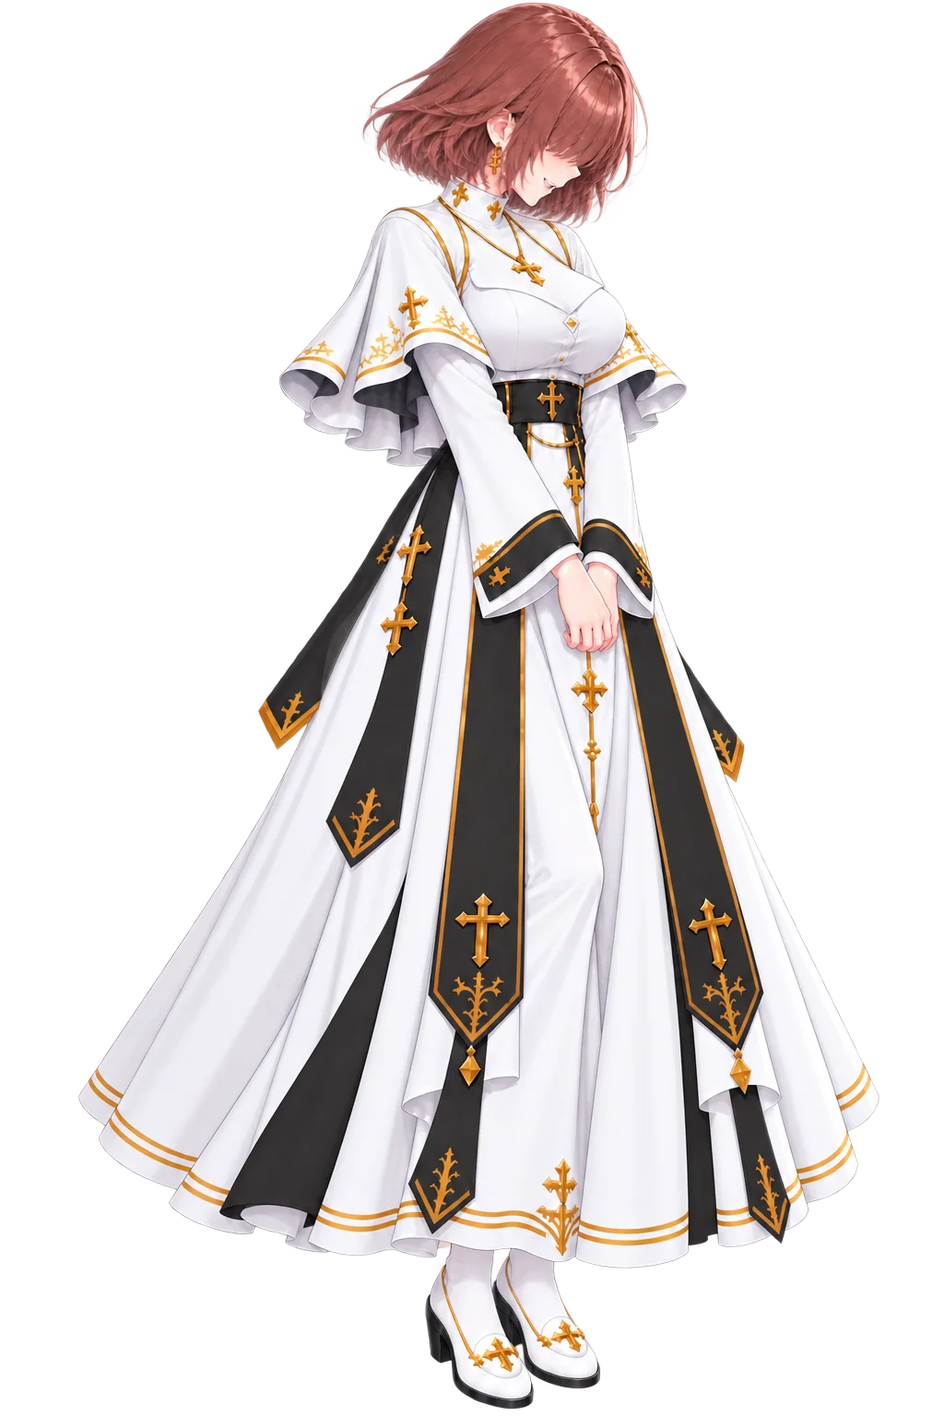
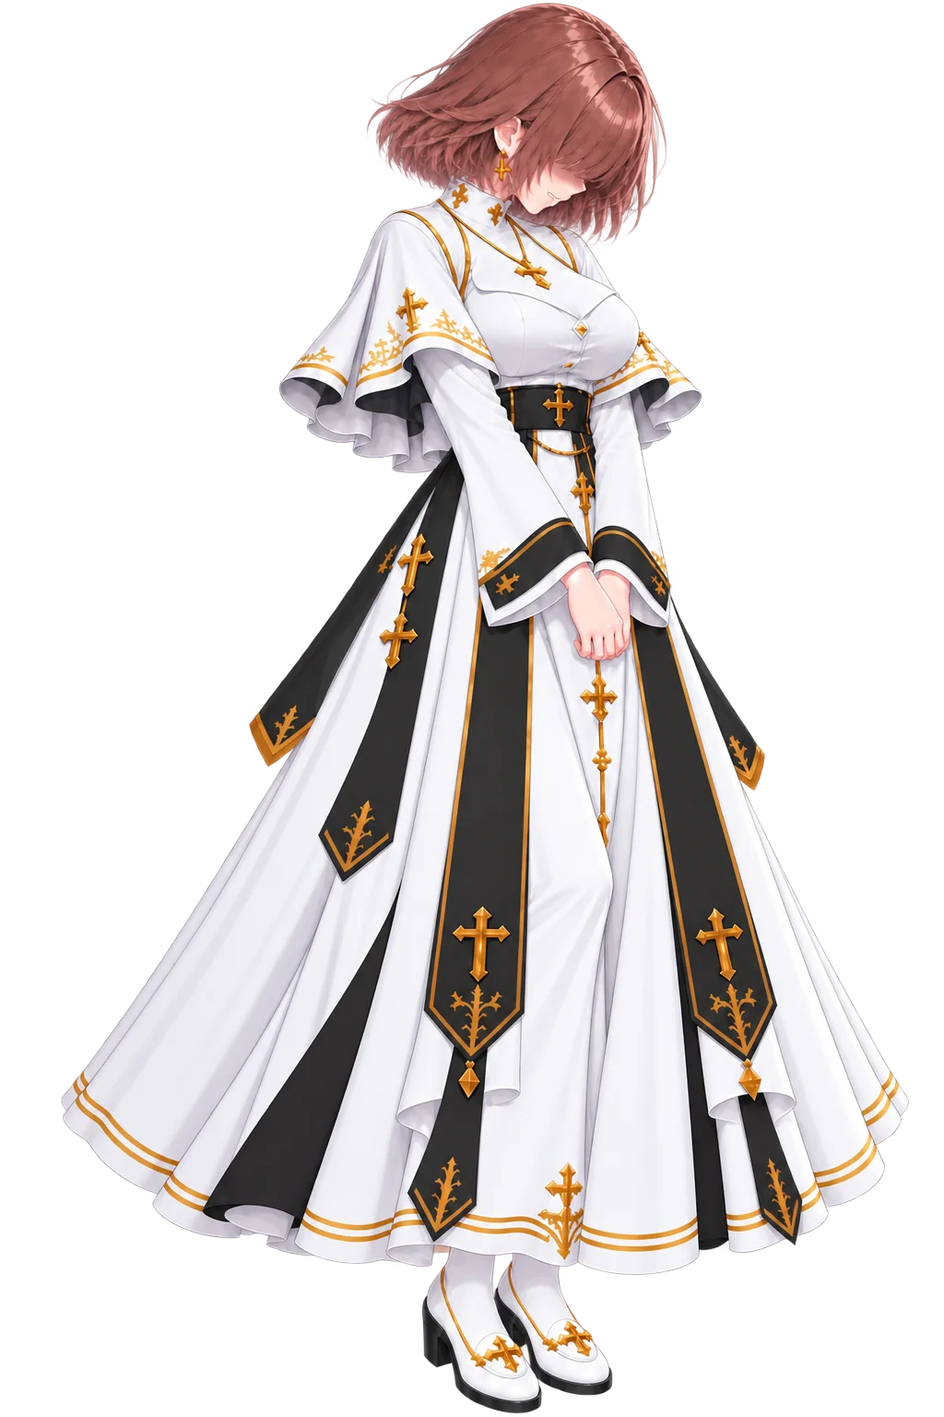
feat(鏡湖/立繪): 你說呢之後撤立繪＋再一次腳步聲／sadsmilenoeye 全換 sadsmile／新差分轉檔 ver -1547
Ray 三件

## 一、「你說呢？」之後撤立繪，再放一次 `se_walk`
那一拍改成 `{ NARRATION, se:'se_walk', auto:1400, **hide:'*'** }`。
· **`hide:'*'` ＝把台上的人全撤**（引擎新增，`modules/story.js`）——
  點名一個個寫也做得到，但那是一份**會過期的清單**（鐵律 8）：那一拍台上站著誰是
  **演到那裡才知道**的，腳本寫死一定漏掉某個人，而漏掉的下場是「那個人留在台上」，
  **沒有任何錯誤訊息**。
· 它走**同一支** `leaveSlot`（與具名 hide、`clearCast` 同一個實作），不碰對話框與
  `story-talking` ⇒ 那一拍照樣有 `se`／`auto`。
· ⚠ 撤乾淨之後台上沒人 ⇒ `auto` 真的會跑（§6.5 的 -628 只押「台上有人」的無台詞拍）。
· 這是**第二次** `se_walk`：第一次是尼莫那一群走掉（賽西莉背影那一拍），這次是她自己。
· `tools/script_lint.py` 跟著認得 `'*'`（不然它報「hide 指到不存在的角色 *」）。

## 二、諾薇兒 `sadsmilenoeye` → `sadsmile`（**五處全換**）
`shinier_ruins`×2、`ravnsdal`×2、`lake`×1。
⚠ 新交的 `sadsmilenoeye` 是「低頭、瀏海蓋住眼睛」，那五拍有四拍**是在回話**——
  臉藏起來讀不通；`sadsmile` 是抬眼的苦笑。
⚠ `sadsmilenoeye` 的 ART 條目**留著**（圖存在，日後要「把臉藏起來」那一拍用得上）。

## 三、差分更新：PNG 全轉 webp、原 PNG 進 `_originals`
· `Nouvelle_SI_sadsmilenoeye`（**同名覆蓋** ⇒ 掛 `?v=2`，§5）＋重量取景
  （舊 2/1527/0.556 → 新 **3/1531/0.568**，沿用舊值臉會偏）
· `Nouvelle_SI_sadnoeye`（**新差分**，已接進 ART：2/1528/0.552）
· `misha_SI_front`、`weapon/chikushoudou` 一併轉檔歸檔（**都還沒接線**，見回報）
⚠ 兩張沒命名的（`CI/045ac642-*.png`、`illustration/d03273c9-*.png`）**沒動**：
  還不知道該叫什麼，轉了也接不上。

## 驗收（瀏覽器實測）
`hide:'*'` 那一拍之後賽西莉的元素 **`.on` 被拿掉**（`CECILIE:story-portrait`），
蕾娜接著上台；`script_lint.py` 0 錯。

Changed region(s): [[0.0625, 0.0, 0.9688, 1.0]]

diff --git a/flight/index.html b/flight/index.html
@@ -3,7 +3,7 @@
 <head>
 <meta charset="utf-8">
 <meta name="viewport" content="width=device-width,initial-scale=1,maximum-scale=1,user-scalable=no,viewport-fit=cover">
-<script src="../orientation.js?v=1546"></script>
+<script src="../orientation.js?v=1547"></script>
 <title>TIVOT — 銀月大陸航行</title>
 <style>
   :root{ --gold:#c9a227; --parch:#d8cdb4; }
@@ -212,7 +212,7 @@
     100%{transform:translate(0,0);} }
   #fkerbDoor{position:absolute;left:0;top:0;transform:translateY(0);
     transition:transform 1s cubic-bezier(.22,.9,.25,1);
-    background-image:url('../resources/vfx/kerberos_door.webp?v=1546edab');
+    background-image:url('../resources/vfx/kerberos_door.webp?v=1547edab');
     background-repeat:no-repeat;background-size:100% 100%;}
   #fkerb.rise #fkerbDoor{transform:translateY(calc(var(--fkerb-rise,0px) * -1));}
   /* 楣與其餘零件：全部是門的子元素＝同一剛體，門上推它們跟著上去
@@ -235,8 +235,8 @@
       radial-gradient(circle at 50% 22%, rgba(0,0,0,.72) 40%, rgba(0,0,0,0) 78%);
     box-shadow:inset 0 3px 7px rgba(0,0,0,.85);}
   #fkerbGear .fkg-shine{position:absolute;inset:0;mix-blend-mode:screen;opacity:.8;
-    -webkit-mask-image:url("../resources/vfx/kerberos_gear.webp?v=1546edab");
-    mask-image:url("../resources/vfx/kerberos_gear.webp?v=1546edab");
+    -webkit-mask-image:url("../resources/vfx/kerberos_gear.webp?v=1547edab");
+    mask-image:url("../resources/vfx/kerberos_gear.webp?v=1547edab");
     -webkit-mask-size:100% 100%;mask-size:100% 100%;
     -webkit-mask-repeat:no-repeat;mask-repeat:no-repeat;
     background:linear-gradient(114deg,
@@ -256,8 +256,8 @@
     filter:drop-shadow(0 3px 7px rgba(0,0,0,.9)) drop-shadow(0 0 2px rgba(0,0,0,.8));}
   #fkerbPend .fkp-shine{position:absolute;inset:0;pointer-events:none;
     mix-blend-mode:screen;opacity:.85;
-    -webkit-mask-image:url("../resources/vfx/kerberos_pendant.webp?v=1546edab");
-    mask-image:url("../resources/vfx/kerberos_pendant.webp?v=1546edab");
+    -webkit-mask-image:url("../resources/vfx/kerberos_pendant.webp?v=1547edab");
+    mask-image:url("../resources/vfx/kerberos_pendant.webp?v=1547edab");
     -webkit-mask-size:100% 100%;mask-size:100% 100%;
     -webkit-mask-repeat:no-repeat;mask-repeat:no-repeat;
     background:linear-gradient(114deg,
@@ -620,25 +620,25 @@
        ⚠ 要有，否則交棒那一格齒輪會憑空冒出來（同吊墜的理由）。
        ⚠ 排在 `.fk-plate` 之前 ＝ 團徽之下、槍棺之上。 -->
   <div id="fkerbGear"><i class="fkg-well"></i>
-    <img src="../resources/vfx/kerberos_gear.webp?v=1546edab" alt=""><i class="fkg-shine"></i></div>
+    <img src="../resources/vfx/kerberos_gear.webp?v=1547edab" alt=""><i class="fkg-shine"></i></div>
   <div id="fkerbGearSm"><i class="fkg-well"></i>
-    <img src="../resources/vfx/kerberos_gear.webp?v=1546edab" alt=""></div>
-  <img class="fk-plate" src="../resources/vfx/kerberos_plate.webp?v=1546edab" alt="">
-  <img class="fk-arrow n" src="../resources/vfx/kerberos_arrow.webp?v=1546edab" alt="">
-  <img class="fk-arrow e" src="../resources/vfx/kerberos_arrow.webp?v=1546edab" alt="">
-  <img class="fk-arrow s" src="../resources/vfx/kerberos_arrow.webp?v=1546edab" alt="">
-  <img class="fk-arrow w" src="../resources/vfx/kerberos_arrow.webp?v=1546edab" alt="">
-  <img class="fk-rivet r10" src="../resources/vfx/kerberos_rivet.webp?v=1546edab" alt="">
-  <img class="fk-rivet r2"  src="../resources/vfx/kerberos_rivet.webp?v=1546edab" alt="">
-  <img class="fk-rivet r4"  src="../resources/vfx/kerberos_rivet.webp?v=1546edab" alt="">
-  <img class="fk-rivet r8"  src="../resources/vfx/kerberos_rivet.webp?v=1546edab" alt="">
+    <img src="../resources/vfx/kerberos_gear.webp?v=1547edab" alt=""></div>
+  <img class="fk-plate" src="../resources/vfx/kerberos_plate.webp?v=1547edab" alt="">
+  <img class="fk-arrow n" src="../resources/vfx/kerberos_arrow.webp?v=1547edab" alt="">
+  <img class="fk-arrow e" src="../resources/vfx/kerberos_arrow.webp?v=1547edab" alt="">
+  <img class="fk-arrow s" src="../resources/vfx/kerberos_arrow.webp?v=1547edab" alt="">
+  <img class="fk-arrow w" src="../resources/vfx/kerberos_arrow.webp?v=1547edab" alt="">
+  <img class="fk-rivet r10" src="../resources/vfx/kerberos_rivet.webp?v=1547edab" alt="">
+  <img class="fk-rivet r2"  src="../resources/vfx/kerberos_rivet.webp?v=1547edab" alt="">
+  <img class="fk-rivet r4"  src="../resources/vfx/kerberos_rivet.webp?v=1547edab" alt="">
+  <img class="fk-rivet r8"  src="../resources/vfx/kerberos_rivet.webp?v=1547edab" alt="">
   <!-- 吊墜（ver -412）：與主遊戲同一套（見 index.html 的 #kerbPend 與 style.css）。
        ⚠ 這一頁**必須也有** —— 遭遇時門是在這裡推上來的，交棒之後主遊戲那一半才接手；
          只有一邊掛吊墜的話，交棒那一格會憑空多出一個東西。 -->
   <div id="fkerbPend"><div class="fkp-swing"><div class="fkp-idle">
-    <img src="../resources/vfx/kerberos_pendant.webp?v=1546edab" alt=""><i class="fkp-shine"></i>
+    <img src="../resources/vfx/kerberos_pendant.webp?v=1547edab" alt=""><i class="fkp-shine"></i>
   </div></div></div>
-  <img id="fkerbTop" src="../resources/vfx/kerberos_top.webp?v=1546edab" alt="">
+  <img id="fkerbTop" src="../resources/vfx/kerberos_top.webp?v=1547edab" alt="">
 </div></div>
 <div id="boot">
   <div id="bRing">
@@ -659,11 +659,11 @@
   <div id="bMsg"><small id="bootMsg"></small></div>
 </div>
 
-<script src="settlement.js?v=1546"></script>
+<script src="settlement.js?v=1547"></script>
 <!-- 閒聊對話的**內容**獨立成一支：方便加台詞、加觸發條件而不必碰引擎。
      ⚠ 一般 <script>（非 module）→ TALKS / talkPeriod / talkPick 是全域，
        而且會在下面這段 inline 之前執行完，所以 inline 內可以直接用。 -->
-<script src="talks.js?v=1546"></script>
+<script src="talks.js?v=1547"></script>
 <script>
 /* ══════════════════════════════════════════════════════════════════════
    TIVOT — 銀月大陸航行（吃真實地圖版）
@@ -715,7 +715,7 @@ const COLOR_URL  = 'silvermoon_terrain.png'  + TERRAIN_V;
    以前是手寫的，於是從 -911 起就沒有人記得動它 —— 而 HUD 上的版本號正是 Ray
    在手機上確認「我現在跑的是哪一版」的唯一依據（鐵律 7：一個量一個計算點；
    ver -626：版本號不動就等於沒有版本號）。**不要手改。** */
-const FLIGHT_VER = 'ver -1546';
+const FLIGHT_VER = 'ver -1547';
 const MAP_SCALE  = 20;
 const INV_SCALE  = 1/MAP_SCALE;
 const PEAK_SCALE = 520;   // 高度圖 255 對應的世界高度（越大山越陡）

diff --git a/index.html b/index.html
@@ -16,7 +16,7 @@
 <link rel="apple-touch-icon" href="resources/background/TIVOT_Emblem.png">
 <title>TIVOT</title>
 <!-- 全域鎖直向（真鎖 + 橫向擋板）；classic script，需在版面就緒前掛上 -->
-<script src="orientation.js?v=1546"></script>
+<script src="orientation.js?v=1547"></script>
 <!-- ══ 效能探針・計數層（ver -850，Ray：「沒有辦法寫一個偵測程式進去看是什麼
      東西在吃資源嗎？」）══ 要在**所有程式之前**掛（晚掛就數不到早開的計時器），
      所以住在這裡。只做登記（Set/計數，開銷趨近零）；讀取與呈現在 main.js 的
@@ -63,55 +63,55 @@
 <script type="importmap">
 {
   "imports": {
-    "./audio.js": "./audio.js?v=1546",
-    "./config.js": "./config.js?v=1546",
-    "./i18n.js": "./i18n.js?v=1546",
-    "./main.js": "./main.js?v=1546",
-    "./orientation.js": "./orientation.js?v=1546",
-    "./state.js": "./state.js?v=1546",
-    "./telemetry.js": "./telemetry.js?v=1546",
-    "./modules/combat.js": "./modules/combat.js?v=1546",
-    "./modules/defense.js": "./modules/defense.js?v=1546",
-    "./modules/enemy.js": "./modules/enemy.js?v=1546",
-    "./modules/gear.js": "./modules/gear.js?v=1546",
-    "./modules/haptics.js": "./modules/haptics.js?v=1546",
-    "./modules/inn.js": "./modules/inn.js?v=1546",
-    "./modules/inspector.js": "./modules/inspector.js?v=1546",
-    "./modules/loot.js": "./modules/loot.js?v=1546",
-    "./modules/partner.js": "./modules/partner.js?v=1546",
-    "./modules/saint.js": "./modules/saint.js?v=1546",
-    "./modules/sakura.js": "./modules/sakura.js?v=1546",
-    "./modules/save.js": "./modules/save.js?v=1546",
-    "./modules/settings.js": "./modules/settings.js?v=1546",
-    "./modules/story.js": "./modules/story.js?v=1546",
-    "./modules/tone.js": "./modules/tone.js?v=1546",
-    "./modules/town.js": "./modules/town.js?v=1546",
-    "./modules/transition.js": "./modules/transition.js?v=1546",
-    "./modules/tutorial.js": "./modules/tutorial.js?v=1546",
-    "./modules/weapon.js": "./modules/weapon.js?v=1546",
-    "./script/bg_index.js": "./script/bg_index.js?v=1546",
-    "./script/clock.js": "./script/clock.js?v=1546",
-    "./script/enemies.js": "./script/enemies.js?v=1546",
-    "./script/evaluation.js": "./script/evaluation.js?v=1546",
-    "./script/inventory.js": "./script/inventory.js?v=1546",
-    "./script/loadout.js": "./script/loadout.js?v=1546",
-    "./script/mainScript.js": "./script/mainScript.js?v=1546",
-    "./script/progress.js": "./script/progress.js?v=1546",
-    "./script/shopstock.js": "./script/shopstock.js?v=1546",
-    "./script/speakers.js": "./script/speakers.js?v=1546",
-    "./script/town.js": "./script/town.js?v=1546",
-    "./i18n/en.js": "./i18n/en.js?v=1546",
-    "./i18n/ja.js": "./i18n/ja.js?v=1546",
-    "./i18n/zh.js": "./i18n/zh.js?v=1546"
+    "./audio.js": "./audio.js?v=1547",
+    "./config.js": "./config.js?v=1547",
+    "./i18n.js": "./i18n.js?v=1547",
+    "./main.js": "./main.js?v=1547",
+    "./orientation.js": "./orientation.js?v=1547",
+    "./state.js": "./state.js?v=1547",
+    "./telemetry.js": "./telemetry.js?v=1547",
+    "./modules/combat.js": "./modules/combat.js?v=1547",
+    "./modules/defense.js": "./modules/defense.js?v=1547",
+    "./modules/enemy.js": "./modules/enemy.js?v=1547",
+    "./modules/gear.js": "./modules/gear.js?v=1547",
+    "./modules/haptics.js": "./modules/haptics.js?v=1547",
+    "./modules/inn.js": "./modules/inn.js?v=1547",
+    "./modules/inspector.js": "./modules/inspector.js?v=1547",
+    "./modules/loot.js": "./modules/loot.js?v=1547",
+    "./modules/partner.js": "./modules/partner.js?v=1547",
+    "./modules/saint.js": "./modules/saint.js?v=1547",
+    "./modules/sakura.js": "./modules/sakura.js?v=1547",
+    "./modules/save.js": "./modules/save.js?v=1547",
+    "./modules/settings.js": "./modules/settings.js?v=1547",
+    "./modules/story.js": "./modules/story.js?v=1547",
+    "./modules/tone.js": "./modules/tone.js?v=1547",
+    "./modules/town.js": "./modules/town.js?v=1547",
+    "./modules/transition.js": "./modules/transition.js?v=1547",
+    "./modules/tutorial.js": "./modules/tutorial.js?v=1547",
+    "./modules/weapon.js": "./modules/weapon.js?v=1547",
+    "./script/bg_index.js": "./script/bg_index.js?v=1547",
+    "./script/clock.js": "./script/clock.js?v=1547",
+    "./script/enemies.js": "./script/enemies.js?v=1547",
+    "./script/evaluation.js": "./script/evaluation.js?v=1547",
+    "./script/inventory.js": "./script/inventory.js?v=1547",
+    "./script/loadout.js": "./script/loadout.js?v=1547",
+    "./script/mainScript.js": "./script/mainScript.js?v=1547",
+    "./script/progress.js": "./script/progress.js?v=1547",
+    "./script/shopstock.js": "./script/shopstock.js?v=1547",
+    "./script/speakers.js": "./script/speakers.js?v=1547",
+    "./script/town.js": "./script/town.js?v=1547",
+    "./i18n/en.js": "./i18n/en.js?v=1547",
+    "./i18n/ja.js": "./i18n/ja.js?v=1547",
+    "./i18n/zh.js": "./i18n/zh.js?v=1547"
   }
 }
 </script>
 <!-- BUST:END -->
-<link rel="stylesheet" href="style.css?v=1546">
+<link rel="stylesheet" href="style.css?v=1547">
   <!-- 拾得道具／道具欄／商店／懸賞榜（ver -380 抽出，飛行頁共用同一份）。
        ⚠ `data-lootsheet` 是給 `modules/loot.js` 認的：它看到已經掛過就不再掛一次。
          飛行頁沒有這一行，由那支模組自己掛上去。 -->
-  <link rel="stylesheet" href="css/lootsheet.css?v=1546" data-lootsheet="1">
+  <link rel="stylesheet" href="css/lootsheet.css?v=1547" data-lootsheet="1">
 <!-- 主畫面 App（standalone）偵測：首繪前在 <html> 蓋 .standalone，
      供 CSS 修 iOS 26 版面視窗少算頂部安全區高度（底部露黑帶）的問題 -->
 <script>
@@ -709,6 +709,6 @@
      ⚠ src 是**按下去才給**的（lazy）：不然每次開機都要多載一整個飛行頁。 -->
 <iframe id="flightFrame" title="飛行"></iframe>
 
-<script type="module" src="main.js?v=1546"></script>
+<script type="module" src="main.js?v=1547"></script>
 </body>
 </html>

diff --git a/script/town.js b/script/town.js
@@ -4056,14 +4056,14 @@ export const TOWNS = {
           Object.assign(ren('talkwork','是嗎？但是也不能放著不管呢。'), { tierWho:'RENNA', tierMax:1 }),
           Object.assign(ren('ask','魔術革命以後這些技術就變得很珍貴了。'), { tierWho:'RENNA', tierMax:1 }),
           Object.assign(ren('talkserious','對聖王廳而言也是。妳懂的吧？'), { tierWho:'RENNA', tierMax:1 }),
-          Object.assign(nou('sadsmilenoeye','我知道。'), { tierWho:'RENNA', tierMax:1 }),
+          Object.assign(nou('sadsmile','我知道。'), { tierWho:'RENNA', tierMax:1 }),
           Object.assign(nou('steady','那，我開始了。'), { tierWho:'RENNA', tierMax:1 }),
           /* ── 分支②：蕾娜 T2 以上（她先護著人） ── */
           Object.assign(ren('sigh','是嗎？不過應該也不是什麼大不了的東西。'), { tierWho:'RENNA', tierMin:2 }),
           Object.assign(ren('smile','別管了吧。'), { tierWho:'RENNA', tierMin:2 }),
           Object.assign(nou('awkward','……謝謝。妳在擔心我吧？'), { tierWho:'RENNA', tierMin:2 }),
           Object.assign(ren('lookaway',''), { tierWho:'RENNA', tierMin:2 }),
-          Object.assign(nou('sadsmilenoeye','不要緊的。我知道這些東西對騎士團也很重要。'), { tierWho:'RENNA', tierMin:2 }),
+          Object.assign(nou('sadsmile','不要緊的。我知道這些東西對騎士團也很重要。'), { tierWho:'RENNA', tierMin:2 }),
           /* ── 分支③：諾薇兒 T1 ── */
           Object.assign({ speaker:'PLAYER', blank:true }, { tierWho:'NOUVELLE', tierMax:1 }),
           Object.assign(nou('awkward','沒關係，我可以的。'), { tierWho:'NOUVELLE', tierMax:1 }),
@@ -4470,7 +4470,7 @@ export const TOWNS = {
         sor('cringe',''),
         nou('decoding','也不能怪索拉娜啦……'),
         sor('surprised','諾薇兒……！'),
-        nou('sadsmilenoeye','只能怪我拖後腿，沒辦法像上一個搭檔那樣支援他。'),
+        nou('sadsmile','只能怪我拖後腿，沒辦法像上一個搭檔那樣支援他。'),
         sor('dying','……我寧可妳罵我。'),
       ] },
     ],
@@ -4592,7 +4592,7 @@ export const TOWNS = {
              ⚠ `tierMin`／`tierMax` 是**一拍**的屬性（§6.5.4 的 -1515 那一課：
                `needTier` 是 `actDue` 在判的，寫在一拍上完全沒作用而且不報錯）。
              ⚠ 看的是**說話者自己**的段位，所以不必寫 `tierWho`。 */
-          nou('sadsmilenoeye','我知道啦……',                                { tierMax:2 }),
+          nou('sadsmile','我知道啦……',                                { tierMax:2 }),
           nou('decoding','對不起……我沒有賽西莉學姐那麼優秀……但是！',        { tierMax:2 }),
           nou('shocked','咦？',                                              { tierMin:3 }),
           nou('shy','我、我沒關係啦！',                                      { tierMin:3 }),
@@ -6664,10 +6664,16 @@ export const TOWNS = {
           { speaker:'PLAYER', blank:true },
           cec('sadback','……'),
           cec('talk','你說呢？'),
-          { speaker:'NARRATION', text:'', se:'se_walk', auto:1400 },
+          /* ══⚠ 她也走了（ver -1547，Ray：「你說呢之後**撤立繪**，**再放一次 se walk**」）══
+             `hide:'*'` ＝把台上的人全撤（不是點名 —— 那一拍站著誰是演到那裡才知道的，
+             寫死一定漏，見 story.js 那一段）。
+             ⚠ 這是**第二次** `se_walk`：第一次是尼莫那一群走掉（賽西莉背影那一拍），
+               這一次是她自己。⚠ 撤乾淨之後台上沒人 ⇒ `auto` 真的會跑（§6.5 的 -628
+               只押「台上有人」的無台詞拍）。 */
+          { speaker:'NARRATION', text:'', se:'se_walk', auto:1400, hide:'*' },
           ren('determined','……'),
           sor('tired','誰快來解釋一下啊……'),
-          nou('sadsmilenoeye',''),
+          nou('sadsmile',''),
         ] } ] },
       /* ⚠ 瀑布底**不是死路**：水簾後面看得到黑色洞口，路往裡面繼續。 */
       fallbase:   { bg:'Lake_Fallbase',   name:'鏡湖　瀑布底',

diff --git a/script/speakers.js b/script/speakers.js
@@ -378,7 +378,17 @@ export const ART = {
                                   cm:139, standCm:165 },
                   thinking:     { src:'resources/SI/Nouvelle_SI_thinking.webp', top:3, bot:1535, fx:0.532 },
                   decoding:     { src:'resources/SI/Nouvelle_SI_decoding.webp', top:4, bot:1528, fx:0.579 },
-                  sadsmilenoeye:{ src:'resources/SI/Nouvelle_SI_sadsmilenoeye.webp', top:2, bot:1527, fx:0.556 },
+                  /* ══⚠⚠ ver -1547：美術**重交了 `sadsmilenoeye`（同名覆蓋）＋ 新增 `sadnoeye`**══
+                     兩張都是「低著頭、瀏海蓋住眼睛」，差別只在**嘴角**（笑／不笑）。
+                     ⚠⚠ 同名覆蓋一定要掛 **`?v=2`**（§5）：瀏覽器以 URL 為鍵，
+                       檔名沒變它照樣拿舊的那一份，而症狀只是「圖沒換」，查不出原因。
+                     ⚠ `top`/`bot`/`fx` **是新圖重量的**（`tools/measure_si.py`）——
+                       舊值 `2/1527/0.556`，新值 `3/1531/0.568`，沿用舊值臉會偏。
+                     ⚠⚠ **腳本現在一個都沒有在用 `sadsmilenoeye`**（ver -1547，Ray：
+                       「諾薇兒的 sadsmilenoeye 換成 sadsmile」—— 五處全換了）。
+                       接著留在這裡是因為**圖存在**：日後要「把臉藏起來」那一拍就用得上。 */
+                  sadsmilenoeye:{ src:'resources/SI/Nouvelle_SI_sadsmilenoeye.webp?v=2', top:3, bot:1531, fx:0.568 },
+                  sadnoeye: { src:'resources/SI/Nouvelle_SI_sadnoeye.webp',      top:2, bot:1528, fx:0.552 },
                   bigsmileclose:{ src:'resources/SI/Nouvelle_SI_bigsmileclose.webp', top:4, bot:1529, fx:0.568 },
                   dying:        { src:'resources/SI/Nouvelle_SI_dying.webp', top:4, bot:1524, fx:0.614 },
                   steady:   { src:'resources/SI/Nouvelle_SI_steady.webp',   top:8,  bot:1529, fx:0.534 },

diff --git a/modules/story.js b/modules/story.js
@@ -2118,7 +2118,7 @@ const KERB_DIR='resources/vfx/';
    cache-buster（§5：檔名沒變、內容變了，瀏覽器照樣拿舊的那一份，而症狀只是
    「看起來沒變」）。版本號由 `tools/bust.py` 同步，路徑只由 `kerbUrl()` 組（鐵律 8）——
    飛行頁那一半是另一個 document，各有一份，改一邊要改另一邊。 */
-const KERB_V='?v=1546';
+const KERB_V='?v=1547';
 const kerbUrl=n=>KERB_DIR+n+'.webp'+KERB_V;
 /* 幾何：由 tools/kerberos_cut.py 印出來的（門座標的比例）。**改圖要重跑腳本再貼回來。**
    ⚠ 箭與鉚釘給的是**中心點**與**未旋轉**的尺寸 —— CSS 的 rotate 是繞元素中心轉的，
@@ -3151,8 +3151,16 @@ function renderLine(){
      仍有諾薇兒立繪殘留」）。走黑幕的那一拍 `reveal` 會等到畫面全亮才跑，於是她是
      **在觀眾眼前**滑出去的 —— 黑幕收起來時她還站著，然後才走。
      要撤的人在黑幕**蓋著的時候**就該撤乾淨。 */
+  /* ⚠⚠ `hide:'*'` ＝**把台上的人全撤**（ver -1547，Ray：「你說呢之後撤立繪，
+     再放一次 se walk」）。點名一個個寫也做得到，但那是一份**會過期的清單**
+     （鐵律 8）：那一拍台上站著誰是**演到那裡才知道**的，腳本寫死一定漏掉某個人，
+     而漏掉的下場是「那個人留在台上」——沒有任何錯誤訊息。
+     ⚠ 它走**同一支** `leaveSlot`（與具名的 hide、`clearCast` 同一個實作）；
+       不碰對話框與 `story-talking`，所以那一拍照樣可以有 `se`／`auto`。 */
   if(line.hide){
-    for(const id of [].concat(line.hide)){
+    const _ids = (line.hide==='*') ? ['L','R'].map(s3=>slot[s3]).filter(Boolean)
+                                   : [].concat(line.hide);
+    for(const id of _ids){
       const a3=artOf(id); if(!a3) continue;
       const s3=sideOf(id);
       if(slot[s3]===id) leaveSlot(s3);

diff --git a/config.js b/config.js
@@ -69,7 +69,7 @@ export const HITFX = {
  *     以為是快取卡住 —— 版本號不動就等於沒有版本號）。
  *  ⚠ 它同時是**暖開機戳記的鑰匙**（main.js 的 `WARM_BOOT`）：版本一變，
  *    上一版的戳記就失效 → 下一次開機重跑完整讀取。那正是改版後該有的行為。 */
-export const VERSION = 'ver 2026.09.17-1546';
+export const VERSION = 'ver 2026.09.17-1547';
 
 export const GAME_CONFIG = {
 

diff --git a/tools/script_lint.py b/tools/script_lint.py
@@ -380,9 +380,10 @@ def main():
                 elif p['expr'] not in (a.get('expr') or {}):
                     warn('%s：%s 沒有 %s 這張差分，會回退基本立繪' % (tag, who, p['expr']))
 
+            # ⚠ `hide:'*'` ＝把台上的人全撤（ver -1547）——它不是角色 id，跳過檢查。
             for h in ([] if ln.get('hide') is None else
                       (ln['hide'] if isinstance(ln['hide'], list) else [ln['hide']])):
-                if h not in speakers:
+                if h != '*' and h not in speakers:
                     err('%s：hide 指到不存在的角色 %s' % (tag, h))
 
             # `bgBand`（ver -1187）＝走時段候選鏈的換背景：驗的是**基底名**
